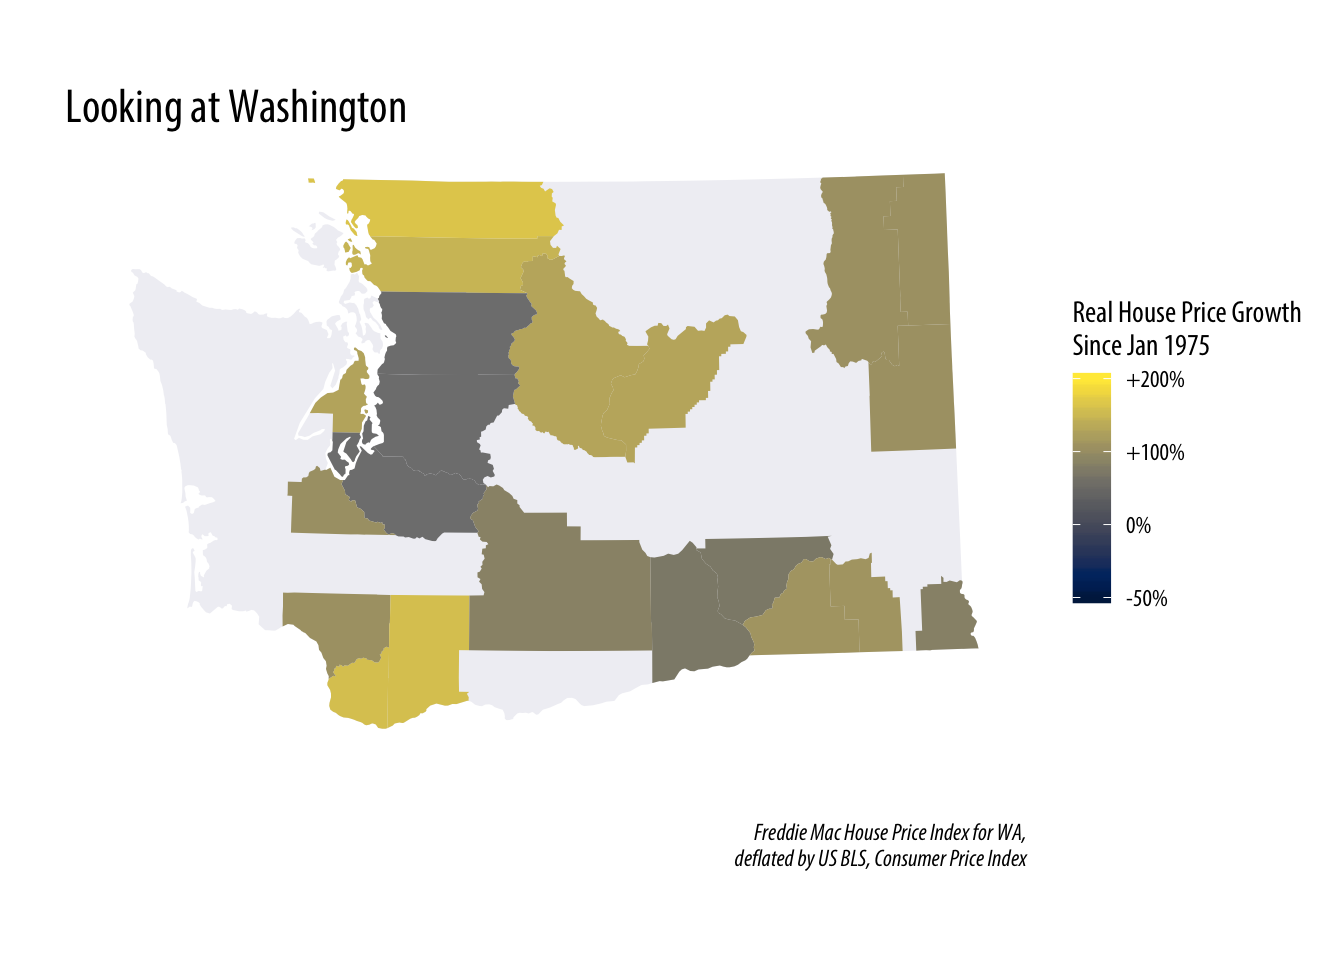
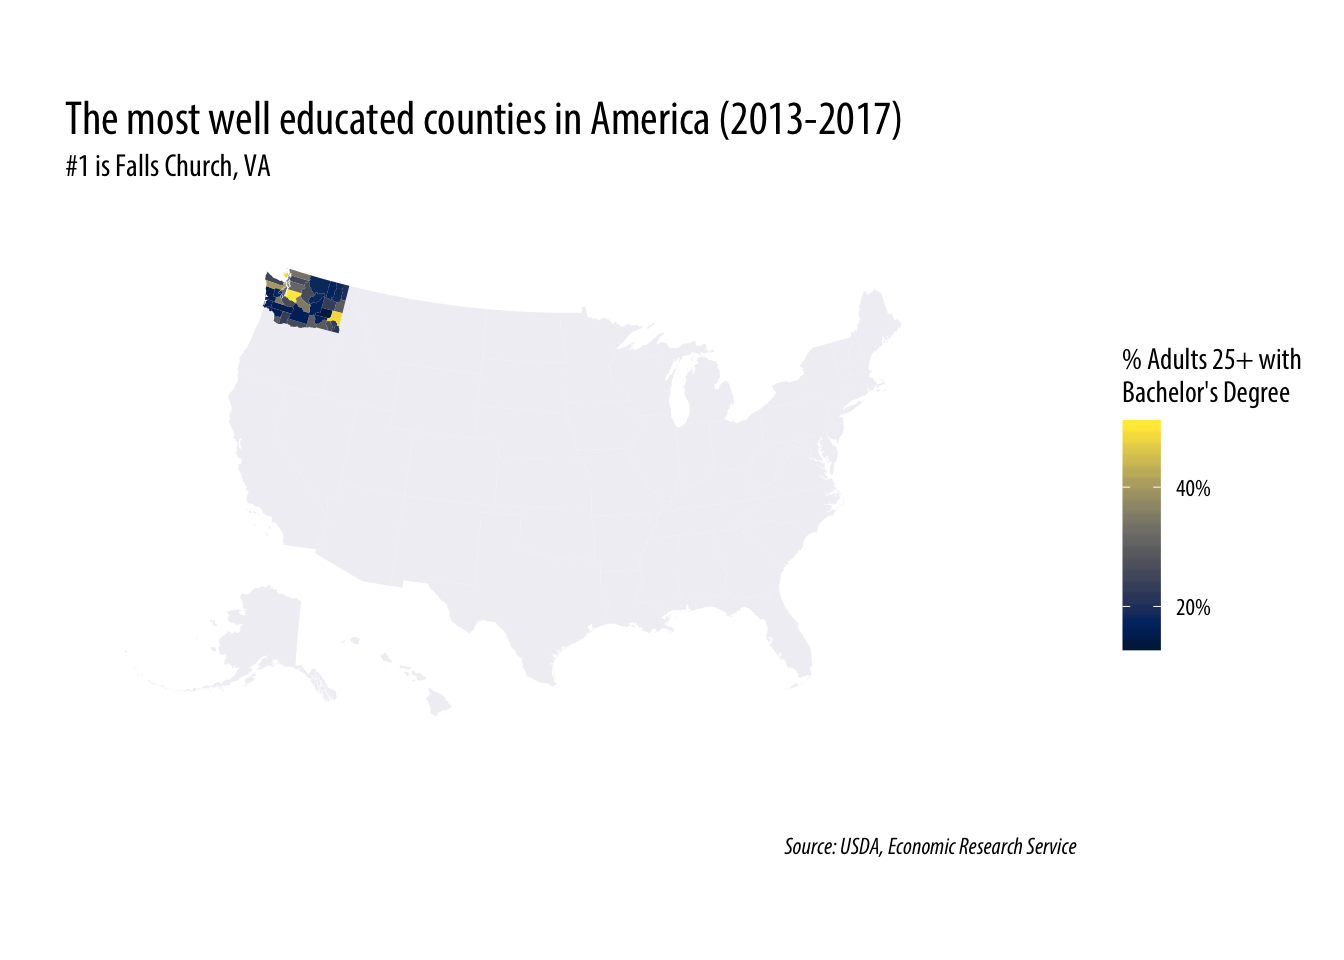
new county map

diff --git a/content/post/2019-11-14-mapping-in-r-ggplot.html b/content/post/2019-11-14-mapping-in-r-ggplot.html
@@ -94,56 +94,80 @@ ggplot(subset(dt2, GEO_Name != &quot;DC&quot;),
 </div>
 <div id="map-at-the-county-level" class="section level1">
 <h1>Map at the County Level</h1>
-<pre class="r"><code>dt3 %&gt;% 
-  mutate(county_fips = paste0(str_pad(FIPS_State_Code, 2, &quot;left&quot;,0),
-                              str_pad(FIPS_County_Code, 3, &quot;left&quot;,0))) %&gt;% 
-  left_join(counties, by = c(&quot;county_fips&quot;)) %&gt;%
-  ggplot(mapping = aes(long, lat, group = group, fill = log(real_hpi))) +
+<p>Let’s get data on educational achievement at the county level and map it. Again, using the <code>urbnmapr</code> package to bring in the shapefile data.</p>
+<pre class="r"><code># get the data and clean 
+data(counties)
+url1 &lt;- &quot;https://www.ers.usda.gov/webdocs/DataFiles/48747/Education.xls?v=1754.5&quot;
+GET(url1, write_disk(tf &lt;- tempfile(fileext = &quot;.xls&quot;)))</code></pre>
+<pre><code>## Response [https://www.ers.usda.gov/webdocs/DataFiles/48747/Education.xls?v=1754.5]
+##   Date: 2019-11-15 17:53
+##   Status: 200
+##   Content-Type: application/vnd.ms-excel
+##   Size: 1.46 MB
+## &lt;ON DISK&gt;  /var/folders/94/ccg99vlx5hn4rhfw5qgqfbvs4jjjx5/T//Rtmpw1nxrY/file16460780e0afb.xls</code></pre>
+<pre class="r"><code>ed &lt;- readxl::read_excel(tf,skip=4) %&gt;%
+  janitor::clean_names()
+
+ed %&gt;% 
+  select(fips_code, state, area_name, percent_of_adults_with_a_bachelors_degree_or_higher_2013_17) %&gt;%
+  inner_join(counties, by = c(&quot;fips_code&quot; = &quot;county_fips&quot;)) %&gt;%
+  ggplot(mapping = aes(long, lat, group = group, fill = percent_of_adults_with_a_bachelors_degree_or_higher_2013_17)) +
   geom_polygon(data = states, aes(long, lat, group = group), fill = &quot;#f0f0f5&quot;, color = &quot;white&quot;,
                size = 0) + 
   geom_polygon(color = &quot;#ffffff&quot;, size =0) +
   coord_map(projection =&quot;albers&quot;, lat0 = 39, lat1 =45) + 
   viridis::scale_fill_viridis(option = &quot;E&quot;,
-                              breaks=c(log(50),log(100),log(200),log(400)),
-                              labels=c(&quot;-50%&quot;,&quot;0%&quot;,&quot;+100%&quot;,&quot;+200%&quot;),
-                              limits=c(log(50),log(400))) + 
+                              breaks = seq(20,100,20),
+                              labels = c(&quot;20%&quot;,&quot;40%&quot;,&quot;60%&quot;,&quot;80%&quot;,&quot;100%&quot;)) +
   theme_twg(grid = FALSE) + 
   theme(legend.title = element_text(),
         axis.text = element_blank(),
         legend.key.width = unit(.2, &#39;in&#39;),
         legend.position = &quot;right&quot;) +
   labs(x = &quot;&quot;, y = &quot;&quot;,
-       title = &quot;The coasts have gotten more expensive&quot;,
-       caption = &quot;Freddie Mac House Price Index by State,\ndeflated by US BLS, Consumer Price Index&quot;,
-       fill = &quot;Real House Price Growth\nSince Jan 1975&quot;) </code></pre>
+       title = &quot;The most well educated counties in America (2013-2017)&quot;,
+       subtitle = &quot;#1 is Falls Church, VA&quot;,
+       caption = &quot;Source: USDA, Economic Research Service&quot;,
+       fill = &quot;% Adults 25+ with\nBachelor&#39;s Degree&quot;) </code></pre>
 <p><img src="/post/2019-11-14-mapping-in-r-ggplot_files/figure-html/unnamed-chunk-4-1.png" width="672" /></p>
 </div>
 <div id="specific-to-a-state" class="section level1">
 <h1>Specific to a state</h1>
-<pre class="r"><code>dt3 %&gt;% 
-  mutate(county_fips = paste0(str_pad(FIPS_State_Code, 2, &quot;left&quot;,0),
-                              str_pad(FIPS_County_Code, 3, &quot;left&quot;,0))) %&gt;% 
-  left_join(counties, by = c(&quot;county_fips&quot;)) %&gt;%
+<p>Educational attainment, filtered down to the state level.</p>
+<pre class="r"><code>data(counties)
+url1 &lt;- &quot;https://www.ers.usda.gov/webdocs/DataFiles/48747/Education.xls?v=1754.5&quot;
+GET(url1, write_disk(tf &lt;- tempfile(fileext = &quot;.xls&quot;)))</code></pre>
+<pre><code>## Response [https://www.ers.usda.gov/webdocs/DataFiles/48747/Education.xls?v=1754.5]
+##   Date: 2019-11-15 17:53
+##   Status: 200
+##   Content-Type: application/vnd.ms-excel
+##   Size: 1.46 MB
+## &lt;ON DISK&gt;  /var/folders/94/ccg99vlx5hn4rhfw5qgqfbvs4jjjx5/T//Rtmpw1nxrY/file164602151e46d.xls</code></pre>
+<pre class="r"><code>ed &lt;- readxl::read_excel(tf,skip=4) %&gt;%
+  janitor::clean_names()
+
+ed %&gt;% 
+  select(fips_code, state, area_name, percent_of_adults_with_a_bachelors_degree_or_higher_2013_17) %&gt;%
+  inner_join(counties, by = c(&quot;fips_code&quot; = &quot;county_fips&quot;)) %&gt;%
   filter(state_name == &quot;Washington&quot;) %&gt;%
-  ggplot(mapping = aes(long, lat, group = group, fill = log(real_hpi))) +
-  geom_polygon(data = subset(states, state_name == &quot;Washington&quot;), 
-               aes(long, lat, group = group), fill = &quot;#f0f0f5&quot;, color = &quot;white&quot;,
+  ggplot(mapping = aes(long, lat, group = group, fill = percent_of_adults_with_a_bachelors_degree_or_higher_2013_17)) +
+  geom_polygon(data = states, aes(long, lat, group = group), fill = &quot;#f0f0f5&quot;, color = &quot;white&quot;,
                size = 0) + 
   geom_polygon(color = &quot;#ffffff&quot;, size =0) +
   coord_map(projection =&quot;albers&quot;, lat0 = 39, lat1 =45) + 
   viridis::scale_fill_viridis(option = &quot;E&quot;,
-                              breaks=c(log(50),log(100),log(200),log(400)),
-                              labels=c(&quot;-50%&quot;,&quot;0%&quot;,&quot;+100%&quot;,&quot;+200%&quot;),
-                              limits=c(log(50),log(400))) + 
+                              breaks = seq(20,100,20),
+                              labels = c(&quot;20%&quot;,&quot;40%&quot;,&quot;60%&quot;,&quot;80%&quot;,&quot;100%&quot;)) +
   theme_twg(grid = FALSE) + 
   theme(legend.title = element_text(),
         axis.text = element_blank(),
         legend.key.width = unit(.2, &#39;in&#39;),
         legend.position = &quot;right&quot;) +
   labs(x = &quot;&quot;, y = &quot;&quot;,
-       title = &quot;Looking at Washington&quot;,
-       caption = &quot;Freddie Mac House Price Index for WA,\ndeflated by US BLS, Consumer Price Index&quot;,
-       fill = &quot;Real House Price Growth\nSince Jan 1975&quot;) </code></pre>
+       title = &quot;The most well educated counties in America (2013-2017)&quot;,
+       subtitle = &quot;#1 is Falls Church, VA&quot;,
+       caption = &quot;Source: USDA, Economic Research Service&quot;,
+       fill = &quot;% Adults 25+ with\nBachelor&#39;s Degree&quot;) </code></pre>
 <p><img src="/post/2019-11-14-mapping-in-r-ggplot_files/figure-html/unnamed-chunk-5-1.png" width="672" /></p>
 </div>
 <div id="geofacet-map" class="section level1">
